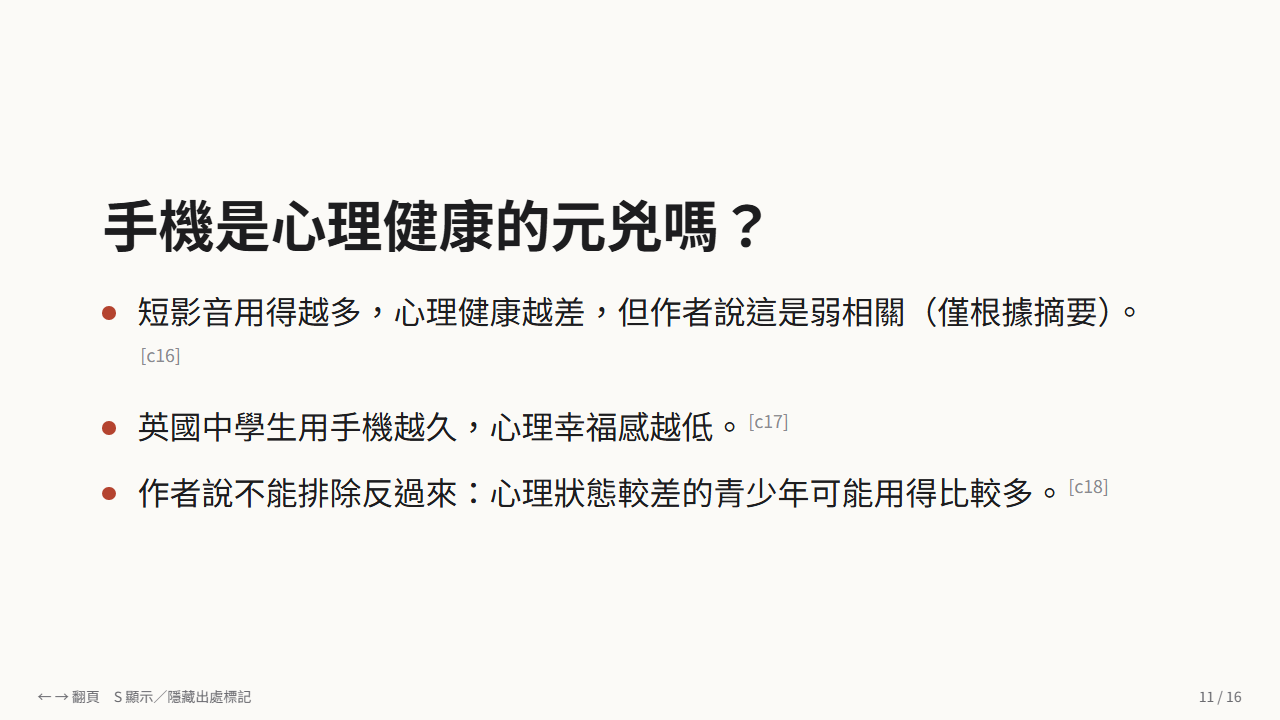
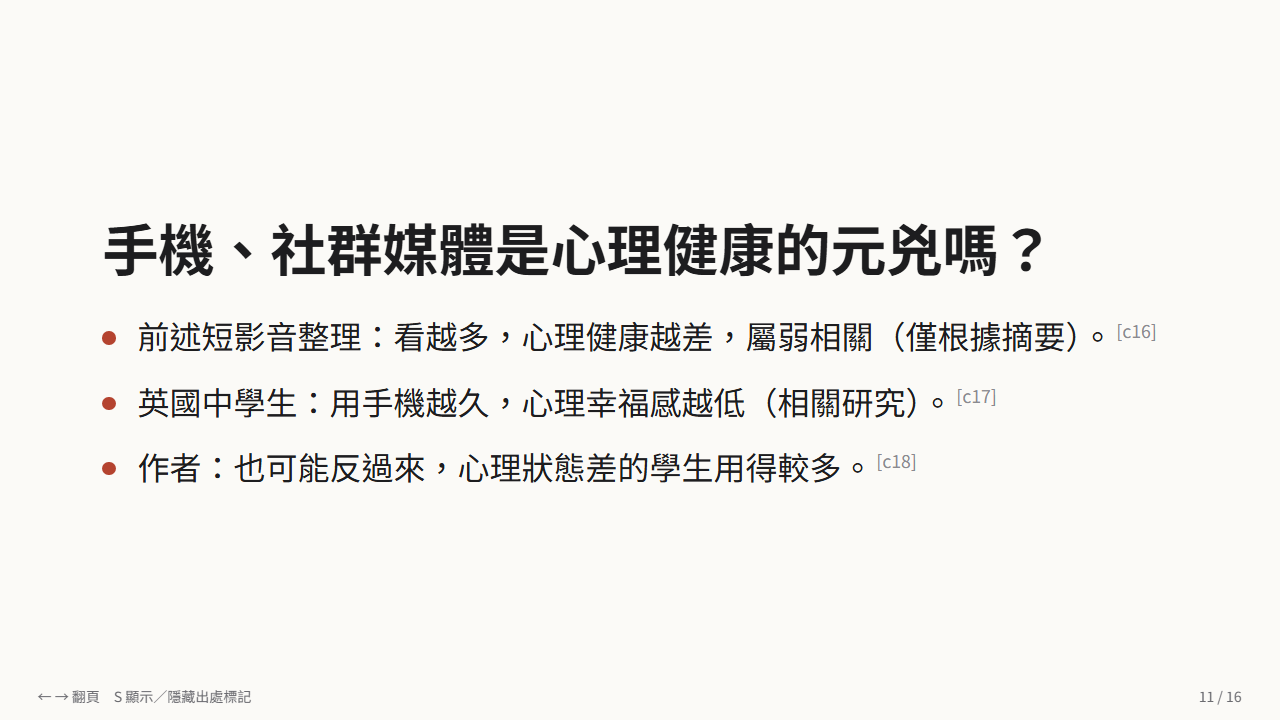
write: topic-slides glossary + banned-word check + G6(c) severity; slides-intro v3 complete

Changed region(s): [[0.0625, 0.275, 0.9062, 0.7028], [0.75, 0.5194, 0.7812, 0.5806]]

diff --git a/outputs/slides-intro/deck.html b/outputs/slides-intro/deck.html
@@ -27,20 +27,20 @@ body.hide-refs .ref{display:none}
 </style></head>
 <body>
 <section class="slide cover" data-slide="slide-01"><h1>手機成癮是真的嗎？注意力研究怎麼說</h1><p class="lead">不喊口號，只看研究實際發現了什麼。</p></section>
-<section class="slide" data-slide="slide-02"><h1>今天要回答的五個問題</h1><p class="lead">「手機成癮」是真的嗎？</p><p class="lead">手機放在旁邊，會變笨嗎？</p><p class="lead">常看短影音，注意力會變差嗎？</p><p class="lead">手機是心理健康問題的元兇嗎？</p><p class="lead">學校禁手機有用嗎？</p></section>
+<section class="slide" data-slide="slide-02"><h1>今天要回答的五個問題</h1><p class="lead">「手機成癮」是真的嗎？</p><p class="lead">手機放在旁邊，測驗表現會變差嗎？</p><p class="lead">常看短影音，注意力會變差嗎？</p><p class="lead">手機、社群媒體是心理健康問題的元兇嗎？</p><p class="lead">限制手機的學校，學生有什麼不同？</p></section>
 <section class="slide" data-slide="slide-03"><h1>「手機成癮」是正式診斷嗎？</h1><ul><li>截至一篇評論發表時，精神疾病診斷手冊裡沒有「手機成癮」。<span class="ref" title="（[[panova-2018]], p. 252: &quot;no mention has been made of smartphone addiction in either the DSM-5 or in the ICD-11&#x27;s draft&quot;）">[c05]</span></li><li>這篇評論認為，證據不足以確認手機成癮存在。<span class="ref" title="（[[panova-2018]], p. 252: &quot;we did not find sufficient support from the addiction perspective to confirm the existence of smartphone addiction at this time&quot;）">[c01]</span></li><li>作者也認為，後果的嚴重程度達不到成癮。<span class="ref" title="（[[panova-2018]], p. 252: &quot;their consequences do not meet the severity levels of those caused by addiction&quot;）">[c02]</span></li></ul></section>
-<section class="slide" data-slide="slide-04"><h1>量表分數高，不等於成癮</h1><ul><li>研究用的成癮量表只是篩檢工具，不能拿來診斷。<span class="ref" title="（[[panova-2018]], p. 255: &quot;the screening instruments used are not valid for diagnosis&quot;）">[c03]</span></li><li>篩檢的偽陽性很高：沒有問題的人，也可能被判成「成癮」。<span class="ref" title="（[[panova-2018]], p. 255: &quot;there is a large probability of false positives&quot;）">[c06]</span></li></ul><p class="lead">那麼，該看什麼？</p></section>
-<section class="slide" data-slide="slide-05"><h1>有學者認為：問題在「做什麼」</h1><ul><li>有學者認為，問題在於用手機做的活動，不在手機本身。<span class="ref" title="（[[panova-2018]], p. 256: &quot;but the problem is not the smartphone device itself&quot;）">[c04]</span></li></ul><p class="lead">與其問「是不是成癮」，不如問：用手機在做什麼？</p></section>
+<section class="slide" data-slide="slide-04"><h1>量表分數高，不等於成癮</h1><ul><li>這篇評論指出：研究用的成癮量表只是篩檢工具，不能拿來診斷。<span class="ref" title="（[[panova-2018]], p. 255: &quot;the screening instruments used are not valid for diagnosis&quot;）">[c03]</span></li><li>篩檢的偽陽性很高：沒有問題的人，也可能被判成「成癮」。<span class="ref" title="（[[panova-2018]], p. 255: &quot;there is a large probability of false positives&quot;）">[c06]</span></li></ul><p class="lead">那麼，該看什麼？</p></section>
+<section class="slide" data-slide="slide-05"><h1>同一篇評論：問題在「做什麼」</h1><ul><li>同一篇評論的作者認為，問題在於用手機做的活動，不在手機本身。<span class="ref" title="（[[panova-2018]], p. 256: &quot;but the problem is not the smartphone device itself&quot;）">[c04]</span></li></ul><p class="lead">與其問「是不是成癮」，不如問：用手機在做什麼？</p></section>
 <section class="slide" data-slide="slide-06"><h1>手機放旁邊，分數會變低？</h1><ul><li>一個大學生實驗：手機放得越近、越顯眼，記憶和推理測驗的分數越低。<span class="ref" title="（[[ward-2017]], p. 145: &quot;suggesting that as smartphone salience increases, available cognitive capacity decreases&quot;）">[c07]</span></li><li>但效果很小。<span class="ref" title="（[[ward-2017]], p. 145: &quot;Phone Location significantly affected both OSpan performance&quot;） （[[ward-2017]], p. 147: &quot;revealed a significant effect of Location on OSpan performance&quot;）">[c11]</span></li></ul><p class="lead">這代表手機會讓人分心嗎？</p></section>
-<section class="slide" data-slide="slide-07"><h1>同一篇研究：手機位置不影響專注力</h1><ul><li>同一篇研究裡，手機放在哪裡，都沒有影響專注力。<span class="ref" title="（[[ward-2017]], p. 148: &quot;Phone location did not affect sustained attention&quot;）">[c08]</span></li><li>在那個大學生實驗裡，把手機翻面或關機都沒有幫助。<span class="ref" title="（[[ward-2017]], p. 150: &quot;placing one&#x27;s phone face down or turning it off are likely futile&quot;）">[c10]</span></li></ul></section>
-<section class="slide" data-slide="slide-08"><h1>換別人再做一次：沒找到</h1><ul><li>後續有研究刻意讓效果更容易出現，結果沒有找到這個效果（僅根據摘要）。<span class="ref" title="（[[pileggi-2025]], Abstract: &quot;Although abstinence was found to increase over time, the results showed no Brain Drain effect&quot;）">[c09]</span></li><li>但這篇只有摘要，不知道參與人數。<span class="ref" title="（[[pileggi-2025]], Abstract: &quot;Participants were smartphone abstinent for 5 hours&quot;）">[c29]</span></li></ul><p class="lead">一個找到、一個沒找到，該相信誰？</p></section>
+<section class="slide" data-slide="slide-07"><h1>同一篇研究：專注力沒有受影響</h1><ul><li>同一篇研究的另一個大學生實驗：手機放在哪裡，都沒有影響專注力（持續注意的能力）。<span class="ref" title="（[[ward-2017]], p. 148: &quot;Phone location did not affect sustained attention&quot;）">[c08]</span></li><li>綜合兩個實驗，作者認為翻面或關機，對認知測驗分數可能都沒有幫助。<span class="ref" title="（[[ward-2017]], p. 150: &quot;placing one&#x27;s phone face down or turning it off are likely futile&quot;）">[c10]</span></li></ul></section>
+<section class="slide" data-slide="slide-08"><h1>重做的研究：沒找到同樣效果（僅根據摘要）</h1><ul><li>一篇重做的研究刻意讓效果更容易出現，仍沒找到「手機越近、分數越低」的效果（僅根據摘要）。<span class="ref" title="（[[pileggi-2025]], Abstract: &quot;Although abstinence was found to increase over time, the results showed no Brain Drain effect&quot;）">[c09]</span></li><li>但這篇只有摘要，不知道參與人數。<span class="ref" title="（[[pileggi-2025]], Abstract: &quot;Participants were smartphone abstinent for 5 hours&quot;）">[c29]</span></li></ul><p class="lead">結果不一樣時，該怎麼看？</p></section>
 <section class="slide" data-slide="slide-09"><h1>常看短影音，注意力比較差？</h1><ul><li>整理 71 篇研究：短影音看越多，認知表現越差（相關研究，僅根據摘要）。<span class="ref" title="（[[nguyen-2025]], Abstract: &quot;Increased SFV use was associated with poorer cognition (moderate mean effect size, r = -.34)&quot;）">[c12]</span><span class="ref" title="（[[nguyen-2025]], Abstract: &quot;Increased SFV use was associated with poorer cognition&quot;）">[c15]</span></li><li>其中注意力和「忍住不分心」的能力，關聯最強（僅根據摘要）。<span class="ref" title="（[[nguyen-2025]], Abstract: &quot;with attention (r = -.38) and inhibitory control (r = -.41) yielding the strongest associations&quot;）">[c13]</span></li><li>青少年和成人都一樣（僅根據摘要）。<span class="ref" title="（[[nguyen-2025]], Abstract: &quot;These findings were consistent across youth and adult samples and across different SFV platforms&quot;）">[c14]</span></li></ul></section>
-<section class="slide" data-slide="slide-10"><h1>「有關聯」不等於「造成」</h1><ul><li>這篇整理的是「有關聯」，不是「造成」（僅根據摘要）。<span class="ref" title="（[[nguyen-2025]], Abstract: &quot;Increased SFV use was associated with poorer cognition&quot;）">[c15]</span></li></ul><p class="lead">短影音和注意力，到底誰影響誰？</p><ul><li>學者也提醒：「科技使用」和「心理健康問題」的趨勢線一起上升，不能判斷誰造成誰。<span class="ref" title="（[[odgers-2024]], p. 29: &quot;how to avoid making up stories by simply looking at trend lines&quot;）">[c23]</span></li></ul></section>
-<section class="slide" data-slide="slide-11"><h1>手機是心理健康的元兇嗎？</h1><ul><li>短影音用得越多，心理健康越差，但作者說這是弱相關（僅根據摘要）。<span class="ref" title="（[[nguyen-2025]], Abstract: &quot;Similarly, increased SFV use was associated with poorer mental health (weak mean effect size, r = -.21)&quot;）">[c16]</span></li><li>英國中學生用手機越久，心理幸福感越低。<span class="ref" title="（[[goodyear-2025]], p. 8: &quot;Increases in smartphone and social media time were associated with reduced mental wellbeing on a weekday, on a weekend day, and across a week&quot;）">[c17]</span></li><li>作者說不能排除反過來：心理狀態較差的青少年可能用得比較多。<span class="ref" title="（[[goodyear-2025]], p. 12: &quot;the study design is cross sectional which makes it difficult to draw conclusions about causality and reverse causality cannot be ruled out&quot;）">[c18]</span></li></ul></section>
-<section class="slide" data-slide="slide-12"><h1>學者：沒證據顯示社群媒體造成心理疾病流行</h1><ul><li>學者指出：大部分研究找到的關聯，是沒有、很小或不一致。<span class="ref" title="（[[odgers-2024]], p. 29: &quot;Our efforts have produced a mix of no, small and mixed associations&quot;）">[c19]</span></li><li>學者也提醒：可能是原本就有心理健康問題的青少年，使用方式和頻率不同。<span class="ref" title="（[[odgers-2024]], p. 29: &quot;mental-health problems use such platforms more often or in different ways from their healthy peers&quot;）">[c20]</span></li><li>沒有證據顯示社群媒體造成心理疾病流行。<span class="ref" title="（[[odgers-2024]], p. 30: &quot;there is no evidence that using these platforms is rewiring children&#x27;s brains or driving an epidemic of mental illness&quot;）">[c21]</span></li></ul></section>
-<section class="slide" data-slide="slide-13"><h1>限制手機的學校，學生有什麼不同？</h1><ul><li>英國觀察研究（學校非隨機分配）：限制手機的學校，學生在校用手機少了 0.67 小時。<span class="ref" title="（[[goodyear-2025]], p. 12: &quot;there is a risk of selection bias and unmeasured confounding in this study&quot;）">[c28]</span><span class="ref" title="（[[goodyear-2025]], p. 7: &quot;Students attending restrictive schools had significantly lower in school smartphone time&quot;）">[c24]</span></li><li>但平日和週末的總使用時間都沒差別。<span class="ref" title="（[[goodyear-2025]], p. 7: &quot;in the adjusted models, the differences were non-significant&quot;）">[c25]</span></li><li>心理幸福感、睡眠、成績和課堂行為也都沒差別。<span class="ref" title="（[[goodyear-2025]], p. 7: &quot;with no evidence of a difference between groups when controlling for other variables&quot;） （[[goodyear-2025]], p. 7: &quot;No significant differences in pupil outcomes were observed between permissive and restrictive schools for all other behavioural outcomes&quot;）">[c26]</span></li></ul></section>
-<section class="slide" data-slide="slide-14"><h1>這個研究沒回答的事：專注力</h1><ul><li>這個研究沒有測量注意力或專注力。<span class="ref" title="（[[goodyear-2025]], p. 5: &quot;Secondary health and education-related outcomes assessed in pupil participants were: anxiety, depression, physical activity, sleep, classroom behaviour, attainment, and problematic social media use&quot;）">[c27]</span></li><li>所以「禁手機能不能讓學生更專心」，這個研究無法回答。<span class="ref" title="（[[goodyear-2025]], p. 5: &quot;Secondary health and education-related outcomes assessed in pupil participants were: anxiety, depression, physical activity, sleep, classroom behaviour, attainment, and problematic social media use&quot;）">[c27]</span></li></ul></section>
-<section class="slide" data-slide="slide-15"><h1>看到手機新聞，先問三件事</h1><p class="lead">是相關，還是實驗？<span class="wref" title="wiki 概念頁：wiki/concepts/correlation-vs-causation.md">[[correlation-vs-causation]]</span></p><p class="lead">研究對象是誰？<span class="wref" title="wiki 概念頁：wiki/concepts/study-population.md">[[study-population]]</span></p><p class="lead">有沒有人重做過？<span class="wref" title="wiki 概念頁：wiki/concepts/replication.md">[[replication]]</span></p><ul><li>另外，學者認為：考量青少年花在平台上的時間，平台仍然需要改革。<span class="ref" title="（[[odgers-2024]], p. 30: &quot;considerable reforms to these platforms are required, given how much time young people spend on them&quot;）">[c22]</span></li></ul></section>
+<section class="slide" data-slide="slide-10"><h1>「有關聯」不等於「造成」</h1><ul><li>這篇整理的是「有關聯」，不是「造成」（僅根據摘要）。<span class="ref" title="（[[nguyen-2025]], Abstract: &quot;Increased SFV use was associated with poorer cognition&quot;）">[c15]</span></li></ul><p class="lead">心理健康的研究呢？</p><ul><li>一位研究者的書評提醒：「科技使用」和「心理健康問題」的趨勢線一起上升，不能判斷誰造成誰。<span class="ref" title="（[[odgers-2024]], p. 29: &quot;how to avoid making up stories by simply looking at trend lines&quot;）">[c23]</span></li></ul></section>
+<section class="slide" data-slide="slide-11"><h1>手機、社群媒體是心理健康的元兇嗎？</h1><ul><li>前述短影音整理：看越多，心理健康越差，屬弱相關（僅根據摘要）。<span class="ref" title="（[[nguyen-2025]], Abstract: &quot;Similarly, increased SFV use was associated with poorer mental health (weak mean effect size, r = -.21)&quot;）">[c16]</span></li><li>英國中學生：用手機越久，心理幸福感越低（相關研究）。<span class="ref" title="（[[goodyear-2025]], p. 8: &quot;Increases in smartphone and social media time were associated with reduced mental wellbeing on a weekday, on a weekend day, and across a week&quot;）">[c17]</span></li><li>作者：也可能反過來，心理狀態差的學生用得較多。<span class="ref" title="（[[goodyear-2025]], p. 12: &quot;the study design is cross sectional which makes it difficult to draw conclusions about causality and reverse causality cannot be ruled out&quot;）">[c18]</span></li></ul></section>
+<section class="slide" data-slide="slide-12"><h1>書評：沒證據顯示社群媒體造成心理疾病流行</h1><ul><li>同一篇書評指出：多數研究找到的關聯，是沒有、很小或不一致。<span class="ref" title="（[[odgers-2024]], p. 29: &quot;Our efforts have produced a mix of no, small and mixed associations&quot;）">[c19]</span></li><li>也提醒：可能是原有心理健康問題的青少年，用法和頻率不同。<span class="ref" title="（[[odgers-2024]], p. 29: &quot;mental-health problems use such platforms more often or in different ways from their healthy peers&quot;）">[c20]</span></li><li>並指出：沒有證據顯示社群媒體造成心理疾病流行。<span class="ref" title="（[[odgers-2024]], p. 30: &quot;there is no evidence that using these platforms is rewiring children&#x27;s brains or driving an epidemic of mental illness&quot;）">[c21]</span></li></ul></section>
+<section class="slide" data-slide="slide-13"><h1>限制手機的學校，學生有什麼不同？</h1><ul><li>同一個英國中學生相關研究（學校非隨機分配）：限制手機的學校，在校用手機少 0.67 小時。<span class="ref" title="（[[goodyear-2025]], p. 12: &quot;there is a risk of selection bias and unmeasured confounding in this study&quot;）">[c28]</span><span class="ref" title="（[[goodyear-2025]], p. 7: &quot;Students attending restrictive schools had significantly lower in school smartphone time&quot;）">[c24]</span></li><li>但平日、週末的總使用時間沒差別。<span class="ref" title="（[[goodyear-2025]], p. 7: &quot;in the adjusted models, the differences were non-significant&quot;）">[c25]</span></li><li>心理幸福感、睡眠、成績、課堂行為也沒差別。<span class="ref" title="（[[goodyear-2025]], p. 7: &quot;with no evidence of a difference between groups when controlling for other variables&quot;） （[[goodyear-2025]], p. 7: &quot;No significant differences in pupil outcomes were observed between permissive and restrictive schools for all other behavioural outcomes&quot;）">[c26]</span></li></ul></section>
+<section class="slide" data-slide="slide-14"><h1>這個研究沒回答的事：注意力</h1><ul><li>同一個英國中學生研究沒有測量注意力（包括專注力）。<span class="ref" title="（[[goodyear-2025]], p. 5: &quot;Secondary health and education-related outcomes assessed in pupil participants were: anxiety, depression, physical activity, sleep, classroom behaviour, attainment, and problematic social media use&quot;）">[c27]</span></li><li>所以「限制手機能不能讓學生更專心」，這個研究無法回答。<span class="ref" title="（[[goodyear-2025]], p. 5: &quot;Secondary health and education-related outcomes assessed in pupil participants were: anxiety, depression, physical activity, sleep, classroom behaviour, attainment, and problematic social media use&quot;）">[c27]</span></li></ul></section>
+<section class="slide" data-slide="slide-15"><h1>看到手機新聞，先問三件事</h1><p class="lead">是相關，還是實驗？<span class="wref" title="wiki 概念頁：wiki/concepts/correlation-vs-causation.md">[[correlation-vs-causation]]</span></p><p class="lead">研究對象是誰？<span class="wref" title="wiki 概念頁：wiki/concepts/study-population.md">[[study-population]]</span></p><p class="lead">有沒有人重做過？<span class="wref" title="wiki 概念頁：wiki/concepts/replication.md">[[replication]]</span></p><ul><li>另外，那篇書評認為：考量青少年花在平台上的時間，平台仍然需要改革。<span class="ref" title="（[[odgers-2024]], p. 30: &quot;considerable reforms to these platforms are required, given how much time young people spend on them&quot;）">[c22]</span></li></ul></section>
 <section class="slide sources generated" data-slide="sources"><h1>資料來源</h1><ul><li>[c01] Panova 與 Carbonell, 2018, p. 252</li><li>[c02] Panova 與 Carbonell, 2018, p. 252</li><li>[c03] Panova 與 Carbonell, 2018, p. 255</li><li>[c04] Panova 與 Carbonell, 2018, p. 256</li><li>[c05] Panova 與 Carbonell, 2018, p. 252</li><li>[c06] Panova 與 Carbonell, 2018, p. 255</li><li>[c07] Ward 等人, 2017, p. 145</li><li>[c08] Ward 等人, 2017, p. 148</li><li>[c09] Pileggi 等人, 2025, Abstract（僅摘要）</li><li>[c10] Ward 等人, 2017, p. 150</li><li>[c11] Ward 等人, 2017, p. 145；p. 147</li><li>[c12] Nguyen 等人, 2025, Abstract（僅摘要）</li><li>[c13] Nguyen 等人, 2025, Abstract（僅摘要）</li><li>[c14] Nguyen 等人, 2025, Abstract（僅摘要）</li><li>[c15] Nguyen 等人, 2025, Abstract（僅摘要）</li><li>[c16] Nguyen 等人, 2025, Abstract（僅摘要）</li><li>[c17] Goodyear 等人, 2025, p. 8</li><li>[c18] Goodyear 等人, 2025, p. 12</li><li>[c19] Odgers, 2024, p. 29</li><li>[c20] Odgers, 2024, p. 29</li><li>[c21] Odgers, 2024, p. 30</li><li>[c22] Odgers, 2024, p. 30</li><li>[c23] Odgers, 2024, p. 29</li><li>[c24] Goodyear 等人, 2025, p. 7</li><li>[c25] Goodyear 等人, 2025, p. 7</li><li>[c26] Goodyear 等人, 2025, p. 7</li><li>[c27] Goodyear 等人, 2025, p. 5</li><li>[c28] Goodyear 等人, 2025, p. 12</li><li>[c29] Pileggi 等人, 2025, Abstract（僅摘要）</li></ul></section>
 <div class="chrome" id="counter"></div>
 <div class="chrome hint">← → 翻頁　S 顯示／隱藏出處標記</div>

diff --git a/scripts/slides.py b/scripts/slides.py
@@ -34,6 +34,7 @@ DESIGN_RE = re.compile(r"^【([^｜】]+)(?:｜([^】]*))?】$")
 SECTION_RE = re.compile(r"^## 段落 (S\d+)｜(.+?)\s*$")
 SLIDE_HEAD_RE = re.compile(r"^## (slide-\d{2})｜(.+?)\s*$")
 EXCLUDED_SECTIONS = ("目前怎麼看", "相關但沒有直接測試的研究", "專家意見")
+NEGATIONS = ("不是", "不能", "沒有", "沒證據", "不等於", "不代表", "無法", "並非", "不一定")
 TITLE_MAX = 20
 BODY_MAX = 80
 SLIDES_MIN, SLIDES_MAX = 10, 15
@@ -161,6 +162,22 @@ def char_count(text: str) -> int:
     """正文字數：不含 [card-id]、[[wiki 連結]]、** 和空白。"""
     t = WLINK_RE.sub("", REF_RE.sub("", text)).replace("**", "")
     return len(re.sub(r"\s+", "", t))
+
+
+def load_banned(d: Path):
+    """讀 glossary.md「## 禁用詞」：回傳 [(詞, 否定句是否例外)]；沒有用詞表時回傳 None。"""
+    path = d / "glossary.md"
+    if not path.is_file():
+        return None
+    out, on = [], False
+    for ln in read(path).splitlines():
+        if ln.startswith("## "):
+            on = ln.strip() == "## 禁用詞"
+            continue
+        m = re.match(r"^- `([^`]+)`(.*)$", ln.strip()) if on else None
+        if m:
+            out.append((m.group(1), "否定句" in m.group(2)))
+    return out
 
 
 # ---------------------------------------------------------------- G1
@@ -307,7 +324,12 @@ def g4(d: Path) -> int:
     for cid in cards:
         if cid not in used:
             r.warn(f"卡片 `{cid}` 沒有被大綱用到")
-    r.note(f"頁數 {len(slides)}，使用卡片 {len(used)}/{len(cards)} 張")
+    banned = load_banned(d)
+    if banned is None:
+        r.err("沒有 glossary.md（用詞表）；G4 要同時產出用詞表")
+    elif not banned:
+        r.err("glossary.md 沒有「## 禁用詞」清單")
+    r.note(f"頁數 {len(slides)}，使用卡片 {len(used)}/{len(cards)} 張，禁用詞 {len(banned or [])} 個")
     return r.finish()
 
 
@@ -317,7 +339,17 @@ def g6(d: Path) -> int:
     cards = load_cards(d)
     slides = parse_outline(d)
     _, listed = parse_sources(d)
+    banned = load_banned(d)
+    if banned is None:
+        r.err("沒有 glossary.md，無法檢查禁用詞")
+        banned = []
     drafts = {p.stem: p for p in sorted((d / "drafts").glob("slide-*.md"))}
+    for sid, path in drafts.items():
+        title, lines = parse_draft(path)
+        for text in [title] + [t for _, t in lines]:
+            for word, neg_ok in banned:
+                if word in text and not (neg_ok and any(n in text for n in NEGATIONS)):
+                    r.err(f"{sid}：出現禁用詞「{word}」：「{plain(text)[:30]}」")
     for sid in slides:
         if sid not in drafts:
             r.err(f"{sid}：大綱有這一頁，但 drafts/ 沒有稿子")

diff --git a/.claude/skills/topic-slides/SKILL.md b/.claude/skills/topic-slides/SKILL.md
@@ -29,6 +29,7 @@ outputs/<產出名稱>/
   sources.md        G1：用到的 wiki 頁面，依段落分組
   cards/<id>.md     G3：證據卡，一張卡一個發現
   outline.md        G4：大綱
+  glossary.md       G4：用詞表（G5 必須照著寫）
   drafts/slide-NN.md  G5：逐頁稿
   deck.html         G7：渲染結果
   screenshots/      G8：截圖（如果做得到）
@@ -112,9 +113,20 @@ abstract_only: false
 - 卡片：c01, c02（不用卡片就寫「無」）
 ```
 
-檢查：`python scripts/slides.py g4 <dir>`：頁數在 10–15 頁之間、卡片都存在、段落都存在、每張卡片至少被用到一次（沒用到的會列為警告）。
+### G4 同時產出用詞表 → `glossary.md`
 
-**使用者確認大綱之前，不可以開始 G5。**
+一致性問題要在**寫稿之前**就決定，不要等到 G6 才抓。用詞表至少包括：
+
+| 節 | 內容 |
+|---|---|
+| `## 來源稱呼` | 每個來源在投影片上的稱呼：第一次出現怎麼寫、之後怎麼寫、不可以怎麼寫。例如一篇書評不可以寫成「學者」「學界」，以免像是學界共識 |
+| `## 研究設計` | 研究設計的統一說法，全份一致，而且要對應結語頁的檢查清單（例如「相關研究」對應「是相關，還是實驗？」） |
+| `## 其他概念` | 容易混用的詞要寫清楚：哪些是同一個概念（要統一），哪些本來就是不同研究的不同測量（不需要統一） |
+| `## 禁用詞` | 每行一個：`` - `詞` ``；否定句可以例外的寫成 `` - `詞`｜例外：否定句 `` |
+
+檢查：`python scripts/slides.py g4 <dir>`：頁數在 10–15 頁之間、卡片都存在、段落都存在、每張卡片至少被用到一次（沒用到的會列為警告）、glossary.md 存在而且有禁用詞清單。
+
+**使用者確認大綱和用詞表之前，不可以開始 G5。**
 
 ## G5 逐頁稿 → `drafts/slide-NN.md`
 
@@ -127,6 +139,7 @@ abstract_only: false
 
 規則：
 - **只能使用大綱和該頁大綱列出的卡片。** 每個事實句（`- ` 開頭）後面都要標 `[card-id]`。
+- **必須照 glossary.md 寫**：來源稱呼、研究設計的說法、概念用詞都照用詞表；不可以用禁用詞。
 - 引導句（`> ` 開頭）不可以有事實，也不可以有數字。
 - 標題最多 20 字；正文最多約 80 字。計算方式：去掉 `[card-id]`、`- `、`> `、`**` 和空白後的字元數。
 - 給一般人看：不用術語，或者術語第一次出現時用一句話解釋。相關的發現不可以寫成因果。
@@ -139,6 +152,7 @@ abstract_only: false
 - 每一行的數字，都出現在該行標註的卡片裡（「發現」或 `design`）
 - 引導句沒有數字
 - 標題和正文沒有超過字數上限
+- **沒有出現 glossary.md 的禁用詞**（標題、事實句、引導句都檢查；標註「例外：否定句」的詞，同一行有否定詞就不算）
 - 每一頁大綱都有對應的稿子，反之亦然
 
 **(b) AI 審查**：開一個**新的 subagent**，只給它 `drafts/` 和 `cards/` 的內容（不給 wiki、不給對話脈絡），請它逐頁檢查：
@@ -153,7 +167,15 @@ abstract_only: false
 - **前後頁是否矛盾**：前一頁的結論，和後一頁的說法有沒有衝突
 - **同一研究在不同頁的描述是否一致**：例如同一篇研究，在 A 頁寫「大學生」、B 頁寫「學生」，或者研究設計、人數的寫法不同
 
-有問題就**退回出錯的那一頁**回到 G5 修改，改完要對那一頁重跑 (a) 和 (b)，然後再跑 (c)。**(c) 最多 2 輪**；2 輪後還不通過，就停下來回報使用者。
+審查員要把每個問題分成兩級：
+- **會誤導**：觀眾可能因此對研究結果產生錯誤的理解 → **退回出錯的那一頁**回到 G5 修改，改完要對那一頁重跑 (a) 和 (b)，然後再跑 (c)
+- **輕微**：用詞或指涉不夠理想，但不會讓人誤解 → **不退回**，記進 report.md；如果改起來不會超過字數、也不會影響其他頁，可以順手修（修了一樣要重跑那一頁的 (a)、(b)）
+
+**(c) 最多 2 輪**；2 輪後還有「會誤導」的問題，就停下來回報使用者。
+
+> 注意：AI 審查每一輪抓到的問題不一定相同（第三版時，第 1 輪漏掉的問題，第 2 輪才抓到），所以 (c) 不能當成唯一的一致性保證。一致性的主要防線是 G4 的用詞表加上 G6 (a) 的禁用詞腳本，(c) 是補漏用的。
+
+> 修改（2026-11-23，第二次）：(c) 跑滿 2 輪後，仍有 1 個會誤導、4 個輕微的問題，其中 2 個（「學者」「觀察研究」）是可以機械檢查的用詞問題。因此把一致性檢查往前移到 G4 用詞表和 G6 (a) 禁用詞腳本，(c) 改成只有「會誤導」的問題才退回。
 
 > 新增原因（2026-11-23）：slide-13 的標題改成「限制手機」之後，slide-14 還寫著「禁手機」。(b) 是逐頁審查，審查員也把這個不一致判定為「不影響通過」，所以流程上沒有任何一關能攔下跨頁的不一致。見 `outputs/slides-intro/report.md` 的「流程修改紀錄」。
 

diff --git a/wiki/log.md b/wiki/log.md
@@ -224,3 +224,21 @@ updated: 2026-11-23
   - 問題：slide-10 82 字、slide-11 91 字，超過上限｜步驟：G6 (a)（第 1 輪修改後）｜處理：精簡用字，slide-11 修了 2 次；順便把「相關性研究」統一成「相關研究」
   - 問題：Odgers 一篇評論被寫成「學者」，slide-12 的標題看起來像學界共識（會誤導）；goodyear 的「相關研究」和「觀察研究」寫法不一致（這是我在第 1 輪修改時造成的）；slide-08「這個效果」指涉不清；slide-07 的標題看起來和 slide-06 打架；slide-07 的 c10 沒說是哪一個實驗｜步驟：G6 (c) 第 2 輪｜處理：已達上限，列進 report 等使用者決定。問題 5 的建議（「第一個實驗」）會講錯，因為 c10 是兩個實驗的綜合結論
   - 觀察：問題 3、4、5 在第 1 輪時就已存在，但第 1 輪的審查員沒有指出；AI 審查每次抓到的問題不一定相同
+
+## [2026-11-23] write | topic-slides 流程修改：一致性檢查往前移
+- 修改（使用者指示）：G4 新增 `glossary.md` 用詞表（來源稱呼、研究設計、其他概念、禁用詞）；G5 必須照用詞表寫；G6 (a) 的 `scripts/slides.py` 新增禁用詞檢查（「造成」在否定句中不算）；G6 (b) 的審查員也拿到用詞表；G6 (c) 的問題分成「會誤導」和「輕微」，只有會誤導的才退回，輕微的記進 report，能順手修的才修；SKILL.md 同步更新
+- 原因：G6 (c) 兩輪找到的 14 個問題，大部分是寫稿前沒有先定好用詞造成的；可以機械檢查的詞應該交給腳本，結果才穩定；AI 審查每輪結果不穩定（第 1 輪漏掉的問題，第 2 輪才抓到）
+- 研究設計的用詞：採用「相關研究」（不加「觀察」），並把「觀察研究」列為禁用詞，以對應結語頁的「是相關，還是實驗？」
+- 檢查結果：
+  - 問題：一致性問題要等寫完稿才由 AI 抓，而且每輪結果不穩定｜步驟：G6 (c)（舊規則下 2 輪仍未通過）｜處理：往前移到 G4 用詞表加 G6 (a) 腳本
+  - 驗證：禁用詞腳本第一次執行，就在現有稿子裡抓到 6 處（「學者」5 處、「觀察研究」1 處），正好是 G6 (c) 第 2 輪的問題 1、2
+
+## [2026-11-23] write | slides-intro 第三版完成
+- 依用詞表修改 G6 (c) 第 2 輪的 5 個問題（slide-07、08、10、12、13、15）；卡片 c10 依 wiki 主張頁補上「作者綜合兩個實驗後認為」
+- 關卡結果：G1–G4 通過；G6 (a) 通過；G6 (b) 第 1 輪 slide-08、12 不通過，第 2 輪通過；G6 (c) 新規則下會誤導 0 個、輕微 5 個，通過；G7 通過；G8 通過（16 頁沒有溢出）
+- 檢查結果（每次退回）：
+  - 問題：slide-08 的引導句「第一篇找到、重做的沒找到」本身是沒有標卡片的事實主張；標題的「換別人」在 c09 裡沒有依據｜步驟：G6 (b) 第 1 輪｜處理：退回 G5，引導句改成單純的提問，標題改成「重做的研究：沒找到同樣效果（僅根據摘要）」。這個「換別人」從第一版就在稿子裡，第一版 3 輪 (b) 都沒有被指出
+  - 問題：slide-12「沒有證據顯示……」沒寫出是書評的看法，違反用詞表｜步驟：G6 (b) 第 1 輪｜處理：退回 G5，補上「並指出」
+  - 問題：G6 (c) 輕微 5 個｜步驟：G6 (c)｜處理：順手修了 slide-14（「專注力」改成「注意力」，改用用詞表的稱呼），重跑 (a)、(b) 通過；另外 4 個因為 80 字上限或卡片沒有依據，沒有修，記進 report
+  - 問題：卡片 c19 的「大部分研究」可能超出 odgers 原文（"a mix of no, small and mixed associations"），而且是從 wiki 的 [[phone-social-media-mental-health]] 和 [[odgers-2024]] 繼承來的｜步驟：G6 (b) 第 2 輪（審查員附帶指出）｜處理：outputs 不能回頭改 wiki，列進 report 待使用者決定是否修正 wiki
+  - 問題：slide-08 的標題剛好在「同樣」中間斷行｜步驟：G8 人工看截圖｜處理：外觀問題，不是溢出，記進 report

diff --git a/outputs/slides-intro/glossary.md b/outputs/slides-intro/glossary.md
@@ -1,0 +1,47 @@
+# 用詞表：slides-intro
+
+> G4 產出，G5 必須照用詞表寫。「禁用詞」由 `python scripts/slides.py g6` 自動檢查。
+> 建立日期：2026-11-23（第三版，使用者指示把一致性檢查往前移）
+
+## 來源稱呼
+
+| 來源 | 第一次出現 | 之後 | 不可以寫 |
+|---|---|---|---|
+| panova-2018 | 一篇評論 | 同一篇評論 | 學者、學界、有學者認為 |
+| odgers-2024 | 一位研究者的書評 | 同一篇書評、那篇書評、書評 | 學者、學界 |
+| ward-2017 | 一個大學生實驗 | 同一篇研究、同一篇研究的另一個實驗 | 把兩個實驗（N=520、N=275）寫成「同一個實驗」 |
+| pileggi-2025 | 一篇重做的研究（僅根據摘要） | 重做的研究 | 「推翻」 |
+| nguyen-2025 | 一篇整理 71 篇研究的分析（相關研究，僅根據摘要） | 前述短影音整理 | — |
+| goodyear-2025 | 一個英國中學生研究（相關研究） | 同一個英國中學生研究 | 觀察研究（統一用「相關研究」） |
+
+## 研究設計
+
+| 概念 | 投影片上的說法 | 說明 |
+|---|---|---|
+| 實驗（ward-2017） | 實驗 | 隨機分組 |
+| 重複驗證（pileggi-2025） | 重做的研究 | 不用「重複驗證」這個術語 |
+| 相關性研究、統合分析（goodyear-2025、nguyen-2025） | **相關研究** | 全份一致，對應 slide-15「是相關，還是實驗？」。goodyear 要加上「學校非隨機分配」 |
+| 評論、書評（panova-2018、odgers-2024） | 評論、書評 | 是作者的看法，要寫「作者認為」「書評指出」 |
+
+## 其他概念
+
+| 概念 | 投影片上的說法 | 說明 |
+|---|---|---|
+| 學校的手機政策 | **限制手機** | 研究比的是「限制型 vs. 允許型」學校，不是全面禁止 |
+| sustained attention（ward-2017） | 專注力 | 第一次出現時說明「持續注意的能力」 |
+| attention（nguyen-2025、goodyear-2025） | 注意力 | 範圍比專注力廣 |
+| 記憶和推理測驗（ward-2017） | 認知測驗分數、測驗表現 | 是當下的表現，不是智力 |
+| mental health（nguyen-2025） | 心理健康 | 和下一列是不同研究的不同測量，不需要統一 |
+| mental wellbeing（goodyear-2025） | 心理幸福感 | 同上 |
+
+## 禁用詞
+
+腳本會檢查標題、事實句和引導句。標註「例外：否定句」的詞，如果同一行出現否定詞（不是、不能、沒有、沒證據、不等於、不代表、無法、並非、不一定），就不算違規。
+
+- `學者`
+- `學界`
+- `禁手機`
+- `會變笨`
+- `證明`
+- `觀察研究`
+- `造成`｜例外：否定句

diff --git a/outputs/slides-intro/outline.md b/outputs/slides-intro/outline.md
@@ -33,12 +33,12 @@
 - 重點：一個大學生實驗發現手機越顯眼、分數越低，但效果很小。
 - 卡片：c07, c11
 
-## slide-07｜但專注力沒變，翻面也沒用
+## slide-07｜同一篇研究：專注力沒有受影響
 - 段落：S2
 - 重點：受影響的是「腦袋能同時處理多少」，不是專注力；翻面或關機在那個實驗裡沒有幫助。
 - 卡片：c08, c10
 
-## slide-08｜換別人再做一次：沒找到
+## slide-08｜重做的研究：沒找到同樣效果（僅根據摘要）
 - 段落：S2
 - 重點：重複驗證沒有找到效果，但它只有摘要、不知道人數；所以是「結果不一致」，不是「被推翻」。
 - 卡片：c09, c29
@@ -58,7 +58,7 @@
 - 重點：使用時間長和心理健康較差有關聯，但相關很弱，而且可能是反過來。
 - 卡片：c16, c17, c18
 
-## slide-12｜學者：不是元兇，但平台要改
+## slide-12｜書評：沒證據顯示社群媒體造成心理疾病流行
 - 段落：S4
 - 重點：多數研究的關聯很小或不一致；沒有證據顯示是元兇，但平台仍需要改革。
 - 卡片：c19, c20, c21（c22 在 G6 第 3 輪移到 slide-15）
@@ -68,7 +68,7 @@
 - 重點：在校使用減少了，但整體使用時間、心理健康、睡眠、成績都沒有差別；一開始就說明這是觀察研究（審查員建議，使用者採用）。
 - 卡片：c24, c25, c26, c28
 
-## slide-14｜這個研究沒回答的事：專注力
+## slide-14｜這個研究沒回答的事：注意力
 - 段落：S5
 - 重點：這個研究沒有測量專注力，所以無法回答「禁手機能不能讓學生更專心」（標題改成限定「這個研究」，審查員建議，使用者採用）。
 - 卡片：c27

diff --git a/outputs/slides-intro/drafts/slide-12.md b/outputs/slides-intro/drafts/slide-12.md
@@ -1,4 +1,4 @@
-# 學者：沒證據顯示社群媒體造成心理疾病流行
-- 學者指出：大部分研究找到的關聯，是沒有、很小或不一致。[c19]
-- 學者也提醒：可能是原本就有心理健康問題的青少年，使用方式和頻率不同。[c20]
-- 沒有證據顯示社群媒體造成心理疾病流行。[c21]
+# 書評：沒證據顯示社群媒體造成心理疾病流行
+- 同一篇書評指出：多數研究找到的關聯，是沒有、很小或不一致。[c19]
+- 也提醒：可能是原有心理健康問題的青少年，用法和頻率不同。[c20]
+- 並指出：沒有證據顯示社群媒體造成心理疾病流行。[c21]

diff --git a/outputs/slides-intro/cards/c10.md b/outputs/slides-intro/cards/c10.md
@@ -7,7 +7,7 @@ abstract_only: false
 ---
 
 ## 發現
-在那個大學生實驗裡，把手機翻面或關機，認知測驗的分數都沒有比較好；作者認為這類做法可能沒有用。
+在大學生實驗中，把手機翻面（實驗一）或關機（實驗二），認知測驗的分數都沒有比較好；作者綜合兩個實驗後認為，這類做法可能沒有用。
 
 ## 出處（從 wiki 照抄）
 （[[ward-2017]], p. 150: "placing one's phone face down or turning it off are likely futile"）

diff --git a/outputs/slides-intro/drafts/slide-08.md b/outputs/slides-intro/drafts/slide-08.md
@@ -1,4 +1,4 @@
-# 換別人再做一次：沒找到
-- 後續有研究刻意讓效果更容易出現，結果沒有找到這個效果（僅根據摘要）。[c09]
+# 重做的研究：沒找到同樣效果（僅根據摘要）
+- 一篇重做的研究刻意讓效果更容易出現，仍沒找到「手機越近、分數越低」的效果（僅根據摘要）。[c09]
 - 但這篇只有摘要，不知道參與人數。[c29]
-> 一個找到、一個沒找到，該相信誰？
+> 結果不一樣時，該怎麼看？

diff --git a/outputs/slides-intro/drafts/slide-10.md b/outputs/slides-intro/drafts/slide-10.md
@@ -1,4 +1,4 @@
 # 「有關聯」不等於「造成」
 - 這篇整理的是「有關聯」，不是「造成」（僅根據摘要）。[c15]
-> 同樣的道理，也適用在心理健康：
-- 學者提醒：「科技使用」和「心理健康問題」的趨勢線一起上升，不能判斷誰造成誰。[c23]
+> 心理健康的研究呢？
+- 一位研究者的書評提醒：「科技使用」和「心理健康問題」的趨勢線一起上升，不能判斷誰造成誰。[c23]

diff --git a/outputs/slides-intro/drafts/slide-13.md b/outputs/slides-intro/drafts/slide-13.md
@@ -1,4 +1,4 @@
 # 限制手機的學校，學生有什麼不同？
-- 同一個英國中學生觀察研究（學校非隨機分配）：限制手機的學校，在校用手機少 0.67 小時。[c28][c24]
+- 同一個英國中學生相關研究（學校非隨機分配）：限制手機的學校，在校用手機少 0.67 小時。[c28][c24]
 - 但平日、週末的總使用時間沒差別。[c25]
 - 心理幸福感、睡眠、成績、課堂行為也沒差別。[c26]
